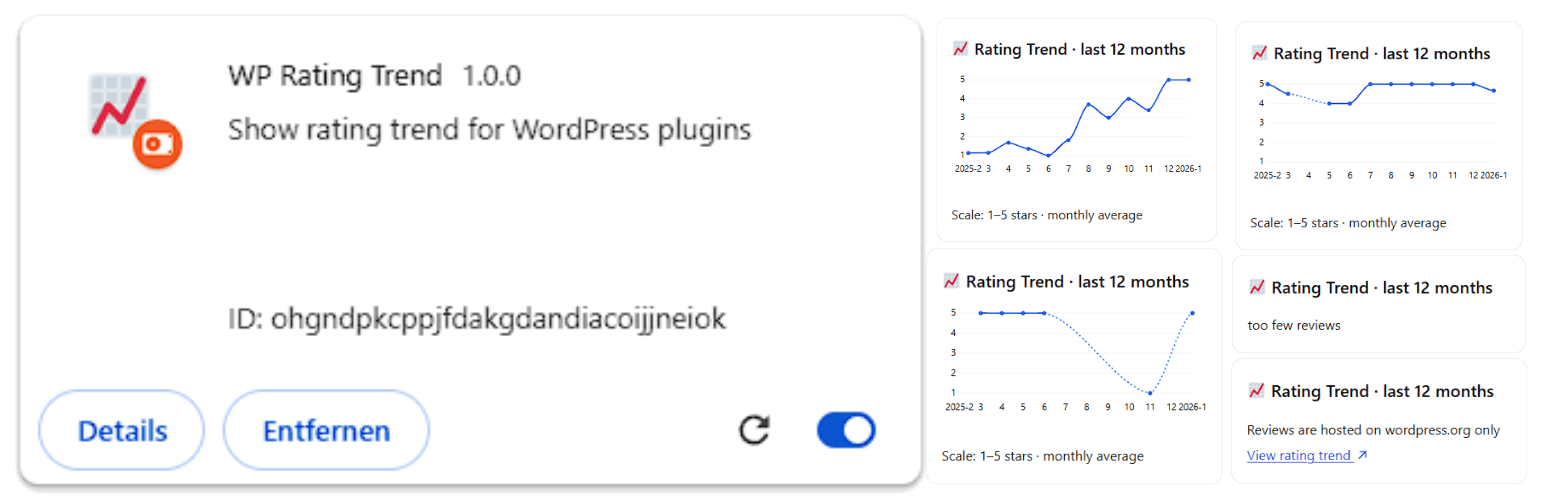
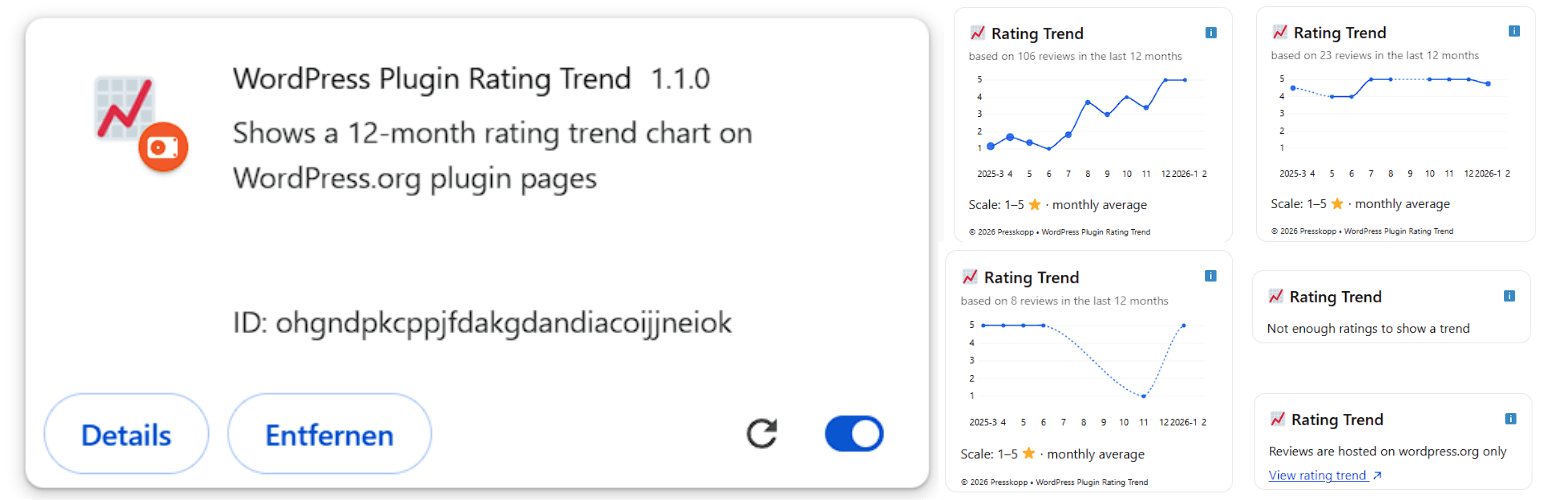
v1.1.0

diff --git a/content.js b/content.js
@@ -76,6 +76,22 @@
 				z-index: 20;
 			}
 
+			.rt-footer {
+				font-size: 10px;
+				margin-top: 10px;
+			}
+
+			.rt-footer-link {
+				text-decoration: none;
+				color: inherit;
+				border-bottom: 1px dotted transparent;
+			}
+
+			.rt-footer-link:hover {
+				border-bottom-color: currentColor;
+			}
+
+
 			/* -------- Loading -------- */
 
 			.rt-loading {
@@ -154,7 +170,7 @@
 	const card = document.createElement("div");
 	card.style.cssText = `
 		margin:16px 0 0;
-		padding:18px;
+		padding:18px 18px 3px 18px;
 		border:1px solid #e5e7eb;
 		border-radius:14px;
 		background:#fff;
@@ -450,6 +466,11 @@
 				${xLabels}
 			</svg>
 			<div style="font-size:16px">${t.scale}</div>
+			<div class="rt-footer">
+				&copy; <span id="rt-year"></span>
+				<a href="https://presskopp.com/" class="rt-footer-link">Presskopp</a> •
+				<a href="https://chromewebstore.google.com/detail/wp-rating-trend/gmkeigdmjfiefaaicjmihodhfnjclifk" class="rt-footer-link">WordPress Plugin Rating Trend</a>
+			</div>
 		`;
 	}
 
@@ -475,5 +496,8 @@
 	if (countEl) {
 		countEl.textContent = reviewsCountText;
 	}
+
+	const year = new Date().getFullYear();
+	document.getElementById("rt-year").textContent = year;
 
 })();

diff --git a/PRIVACY.md b/PRIVACY.md
@@ -1,6 +1,6 @@
 # Privacy Policy
 
-WP Rating Trend does not collect, store, or transmit any personal or user data.
+WordPress Plugin Rating Trends does not collect, store, or transmit any personal or user data.
 
 The extension runs locally in the browser and only reads publicly available
 information from WordPress.org plugin pages to display a rating trend chart.

diff --git a/CHANGELOG.md b/CHANGELOG.md
@@ -1,5 +1,12 @@
 # Changelog
 
+## [1.1.0] – 2026-02-05
+
+- The extension, formerly known as 'WP Rating Trend', has been renamed to 'WordPress Plugin Rating Trends'. If Prince can do it, so can I.
+- Footer credits added.
+
+---
+
 ## [1.0.9] – 2026-02-04
 
 - \***NEW**\* Now with 100% more loading animation  
